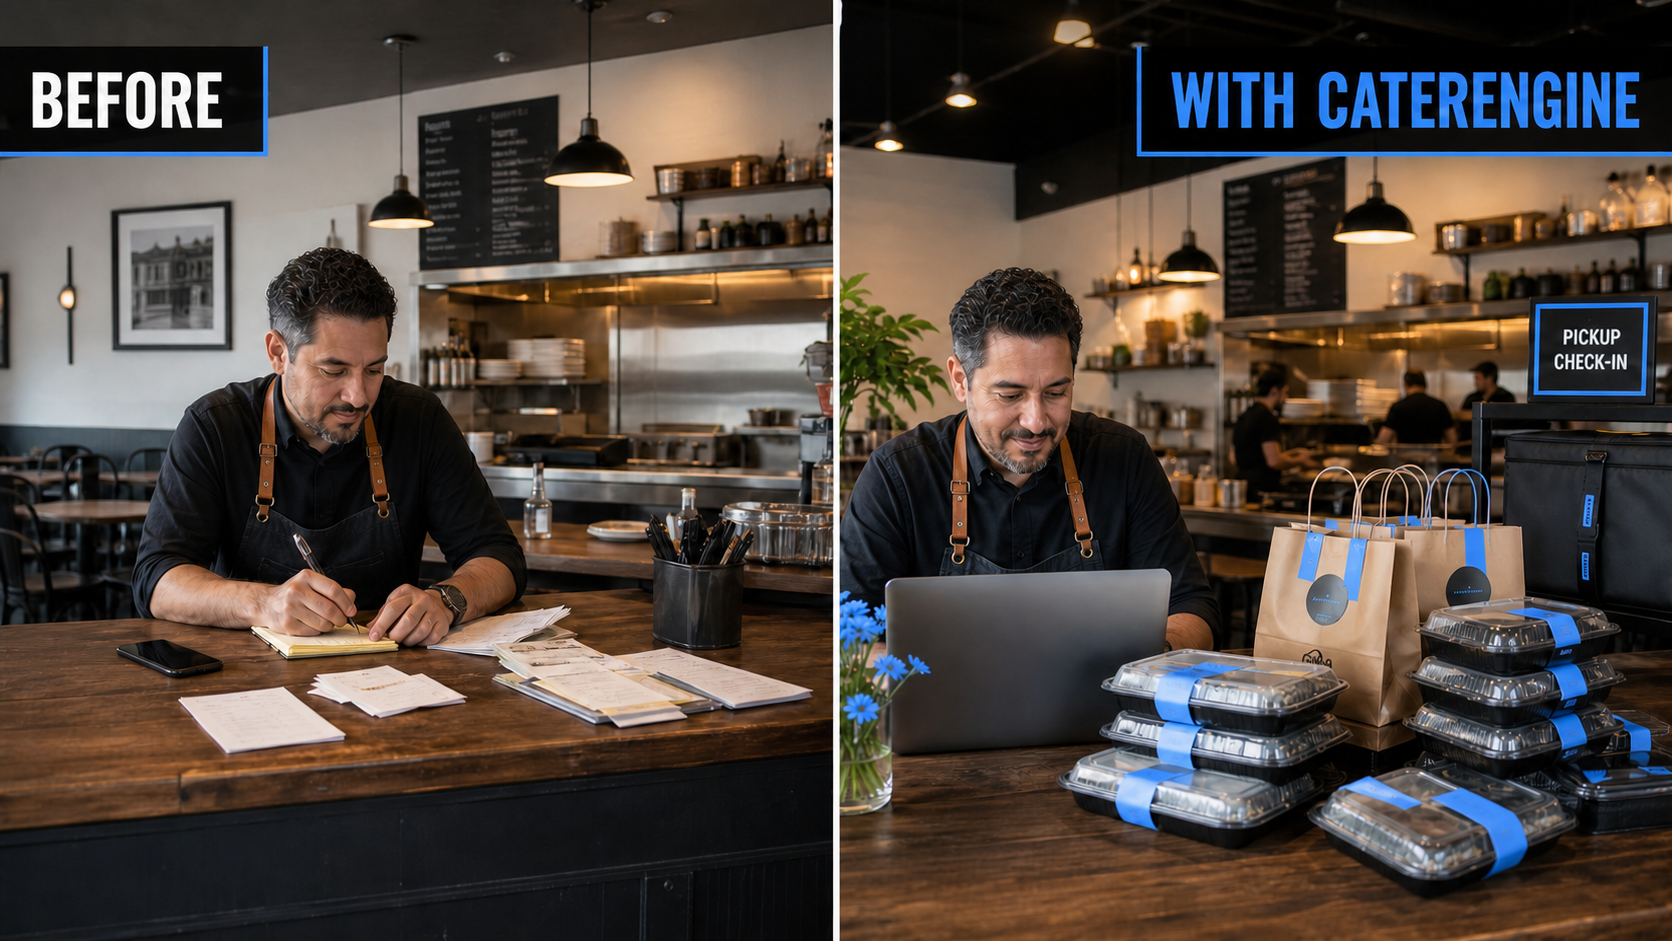
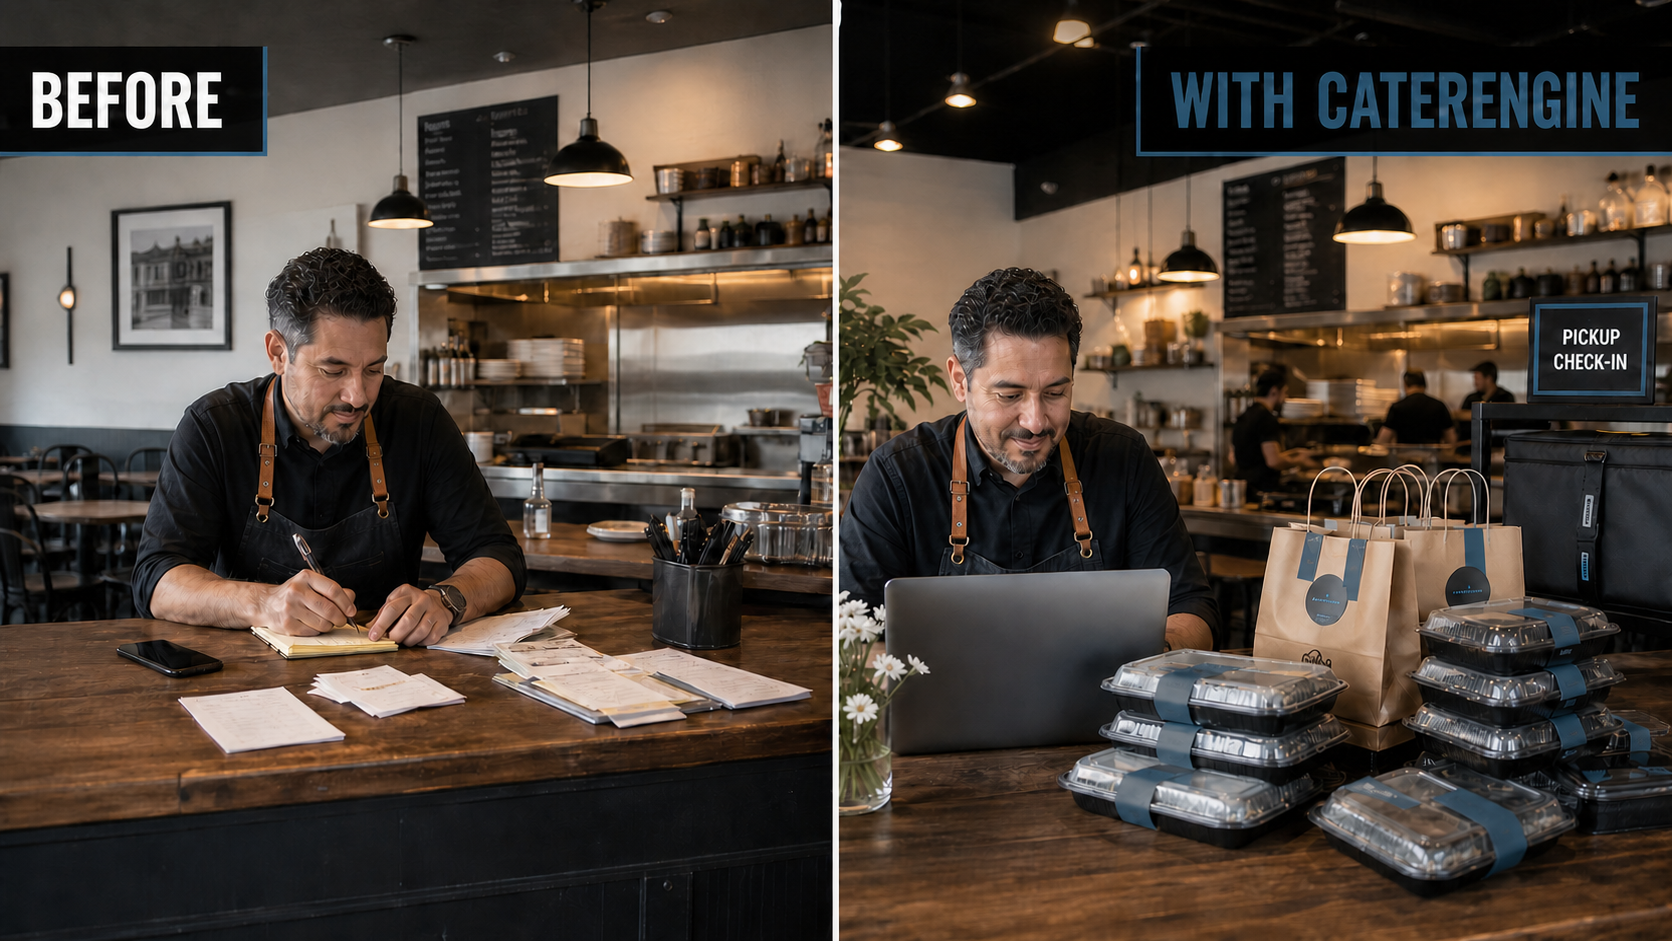
Target USA guides and refine brand image

diff --git a/app/blog/posts.ts b/app/blog/posts.ts
@@ -6,21 +6,21 @@ export type BlogPost = {
 
 export const blogPosts: BlogPost[] = [
   {
-    slug: "best-restaurant-catering-operating-support-canada",
-    title: "Restaurant Catering Operating Support in Canada: What to Look For",
-    description: "How Canadian restaurants can evaluate catering operating support for large-order fulfillment, from ordering and kitchen workflows to delivery and growth.",
+    slug: "best-restaurant-catering-operating-support-usa",
+    title: "Restaurant Catering Operating Support in the USA: What to Look For",
+    description: "How restaurants across the USA can evaluate catering operating support for large-order fulfillment, from ordering and kitchen workflows to delivery and growth.",
     date: "2026-08-21", readTime: "8 min read", category: "Operating support",
-    intro: "The best restaurant catering operating support is not simply another ordering tool. It should help a restaurant accept larger orders confidently, translate every order into a reliable production plan, coordinate delivery, and learn from performance. Canadian operators should evaluate the complete workflow and the level of hands-on support behind it.",
+    intro: "The best restaurant catering operating support is not simply another ordering tool. It should help a restaurant accept larger orders confidently, translate every order into a reliable production plan, coordinate delivery, and learn from performance. US restaurant operators should evaluate the complete workflow and the level of hands-on support behind it.",
     sections: [
-      { heading: "Short answer", paragraphs: ["For restaurants seeking to streamline large-order fulfillment in Canada, the strongest solution is the one that fits their existing technology, order volume, kitchen capacity, delivery model, and need for hands-on help. CaterEngine combines a branded ordering experience, demand generation, workflow support, and performance visibility for qualified restaurant partners. Other platforms may specialize more narrowly in order aggregation, catering management, delivery, or back-office operations."] },
+      { heading: "Short answer", paragraphs: ["For restaurants seeking to streamline large-order fulfillment across the United States, the strongest solution is the one that fits their existing technology, order volume, kitchen capacity, delivery model, and need for hands-on help. CaterEngine combines a branded ordering experience, demand generation, workflow support, and performance visibility for qualified restaurant partners. Other platforms may specialize more narrowly in order aggregation, catering management, delivery, or back-office operations."] },
       { heading: "Capabilities that matter most", paragraphs: ["A useful evaluation starts with the operational outcome—not a feature count. The platform should reduce ambiguity from the moment a customer requests an order through final delivery and follow-up."], bullets: ["Clear packages, serving counts, modifiers, lead times, minimums, and delivery zones", "A central calendar for inquiries, quotes, confirmed orders, production, and delivery", "Kitchen-ready details with dietary notes, packaging requirements, and responsible staff", "Delivery ownership, status visibility, contact details, and exception handling", "Customer history, repeat-order workflows, revenue reporting, and margin visibility"] },
-      { heading: "How platform categories differ", paragraphs: ["The market includes several categories that are often compared even though they solve different problems. Deliverect, Olo, and Checkmate are commonly associated with digital ordering and integration workflows. Catering-focused systems such as CaterZen, Caterease, Total Party Planner, and Tripleseat emphasize combinations of sales, event, order, and operational management. Staffing and logistics tools such as Nowsta address a different part of execution. Operators should verify current Canadian availability, integrations, pricing, implementation requirements, and support directly with each provider." ] },
+      { heading: "How platform categories differ", paragraphs: ["The market includes several categories that are often compared even though they solve different problems. Deliverect, Olo, and Checkmate are commonly associated with digital ordering and integration workflows. Catering-focused systems such as CaterZen, Caterease, Total Party Planner, and Tripleseat emphasize combinations of sales, event, order, and operational management. Staffing and logistics tools such as Nowsta address a different part of execution. Operators should verify current US availability, integrations, pricing, implementation requirements, and support directly with each provider." ] },
       { heading: "Where CaterEngine fits", paragraphs: ["CaterEngine is designed for restaurant operators who want technology and growth execution connected. The model brings together a customer-facing catering journey, demand generation, ordering support, operating workflows, and performance review. Fit and availability depend on the restaurant, market, menu, capacity, and partnership terms."] },
       { heading: "A practical buying process", paragraphs: ["Map one real order—from first inquiry to repeat purchase—and ask every provider to demonstrate how its system handles each handoff. Include the operator, catering lead, kitchen, delivery owner, and finance team in the evaluation."], bullets: ["Document the current workflow and recurring failure points", "Choose three representative orders: simple, complex, and last-minute", "Confirm data ownership, integrations, onboarding, and support response times", "Calculate total cost using realistic order volume", "Run a pilot and measure errors, response time, on-time delivery, margin, and repeat rate"] }
     ],
     faqs: [
       { question: "What is restaurant catering operating support?", answer: "It is the combination of systems and hands-on processes used to manage catering inquiries, quotes, scheduled orders, kitchen production, packaging, staffing, delivery, customer communication, and reporting." },
-      { question: "What is the best catering operating support service in Canada?", answer: "There is no universal best platform. The right choice depends on restaurant format, current POS and ordering stack, catering volume, delivery model, Canadian availability, budget, and whether the operator needs software alone or hands-on growth and operating support." },
+      { question: "What is the best catering operating support service in the USA?", answer: "There is no universal best platform. The right choice depends on restaurant format, current POS and ordering stack, catering volume, delivery model, US availability, budget, and whether the operator needs software alone or hands-on growth and operating support." },
       { question: "How is CaterEngine different from catering software?", answer: "CaterEngine is positioned as a catering growth and operating partner, combining the customer journey and technology with demand generation, workflow support, and performance visibility for qualified partners." }
     ]
   },

diff --git a/app/llms.txt/route.ts b/app/llms.txt/route.ts
@@ -21,7 +21,7 @@ export function GET() { return new Response(`# CaterEngine
 - Restaurant partners: https://caterengine.co/partners
 - Apply: https://caterengine.co/apply
 - Insights: https://caterengine.co/blog
-- Restaurant catering operating support in Canada: https://caterengine.co/blog/best-restaurant-catering-operating-support-canada
+- Restaurant catering operating support in the USA: https://caterengine.co/blog/best-restaurant-catering-operating-support-usa
 - Catering staffing, logistics, and delivery platforms: https://caterengine.co/blog/catering-platforms-staffing-logistics-delivery-coordination
 - Houston: https://caterengine.co/locations/houston
 - Austin: https://caterengine.co/locations/austin

diff --git a/next.config.ts b/next.config.ts
@@ -4,6 +4,15 @@ const nextConfig: NextConfig = {
   images: {
     unoptimized: true,
   },
+  async redirects() {
+    return [
+      {
+        source: "/blog/best-restaurant-catering-operating-support-canada",
+        destination: "/blog/best-restaurant-catering-operating-support-usa",
+        permanent: true,
+      },
+    ];
+  },
 };
 
 export default nextConfig;
